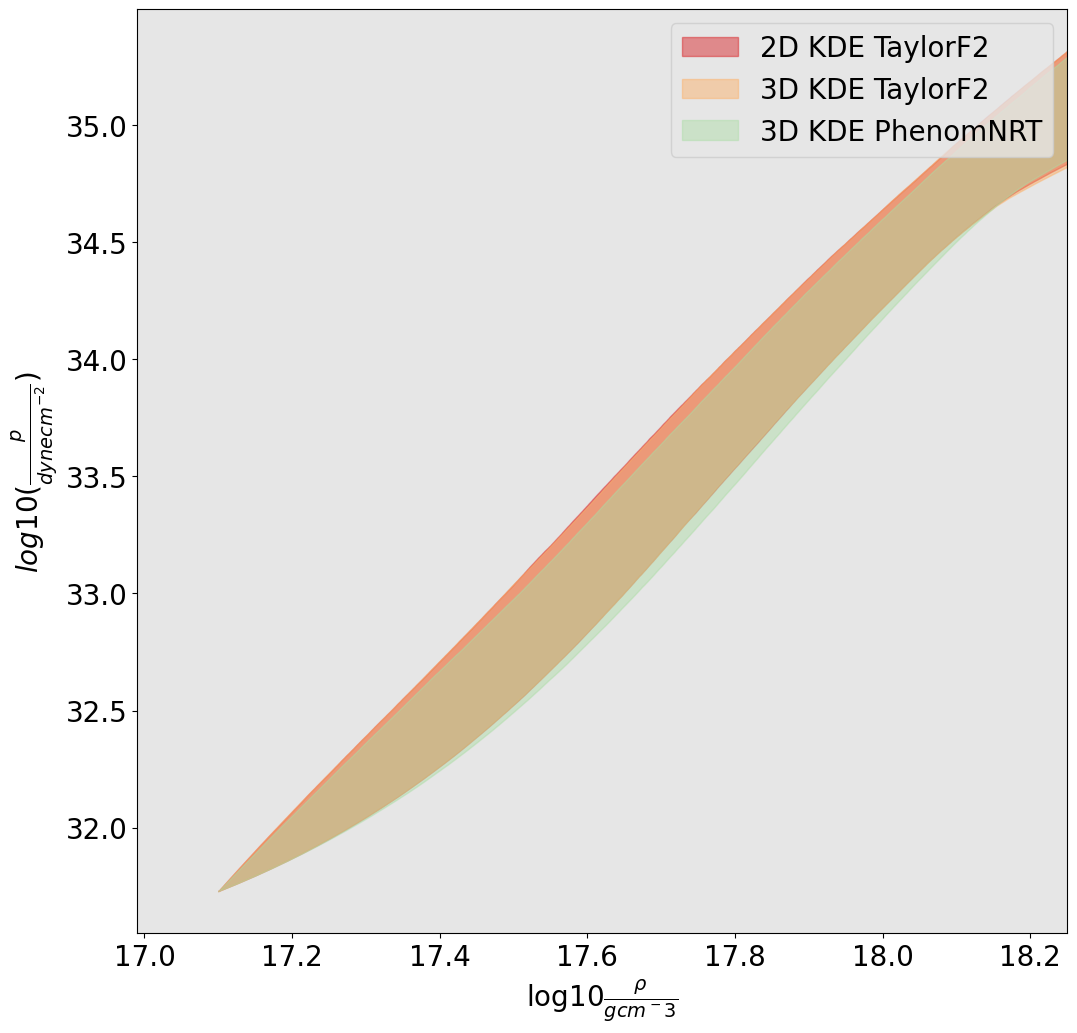
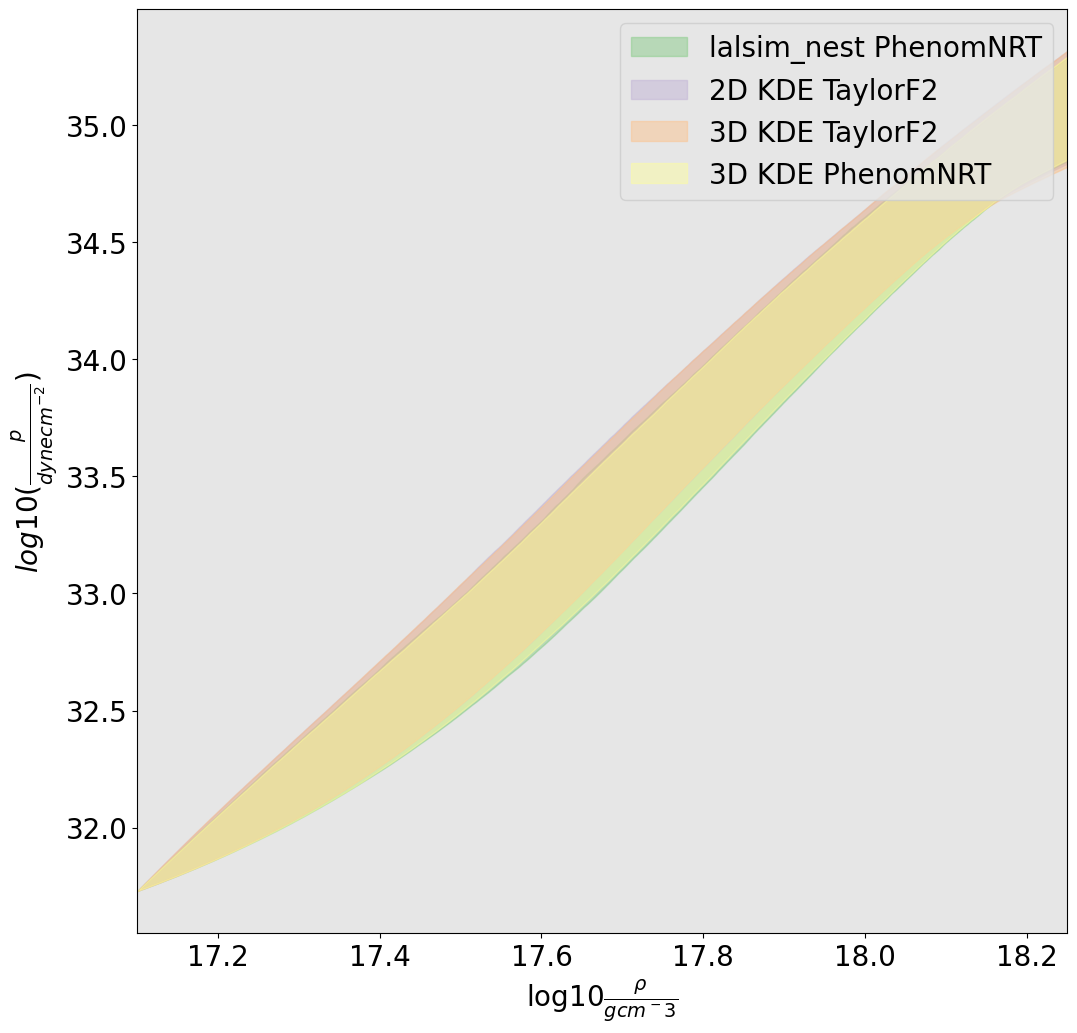
New comparison plot for GW170817 constraint.

diff --git a/year3/lastStretch/eventConstraint.py b/year3/lastStretch/eventConstraint.py
@@ -132,19 +132,17 @@ def CalcConstraint2():
 def plotConstraint():
     # Adopted from Anarya's GWXtreme 3d kde prod branch's plotting logic.
 
-    #labels = ["2D-KDE-TaylorF2", "3D-KDE-TaylorF2", "3D-KDE-PhenomNRT"]
+    labels = ["lalsim_nest-PhenomNRT", "2D-KDE-TaylorF2", "3D-KDE-TaylorF2", "3D-KDE-PhenomNRT"]
     #labels = ["2D-KDE-TaylorF2", "3D-KDE-TaylorF2"]
     #labels = ["3D-KDE-TaylorF2", "3D-KDE-PhenomNRT"]
-    labels = ["lalsim_nest-PhenomNRT"]
-    #Labels = ["2D KDE TaylorF2", "3D KDE TaylorF2", "3D KDE PhenomNRT"]
+    Labels = ["lalsim_nest PhenomNRT", "2D KDE TaylorF2", "3D KDE TaylorF2", "3D KDE PhenomNRT"]
     #Labels = ["2D KDE TaylorF2", "3D KDE TaylorF2"]
     #Labels = ["3D KDE TaylorF2", "3D KDE PhenomNRT"]
-    Labels = ["lalsim_nest PhenomNRT"]
+    Colors = ["#7fc97f","#beaed4","#fdc086","#ffff99"]
     #Colors = ["#d7191c","#fdae61","#abdda4"]
     #Colors = ['#e41a1c','#377eb8','#4daf4a']
     #Colors = ['#e41a1c','#377eb8']
     #Colors = ['#377eb8','#4daf4a']
-    Colors = ['#e41a1c']
 
     plt.figure(figsize=(12,12))
     plt.rc('font', size=20)
@@ -163,15 +161,14 @@ def plotConstraint():
         #plt.plot(upper_bound, rho, color=Color)
         plt.fill_between(np.log10(rho), lower_bound, upper_bound, color=Color, alpha=0.45, label=Label, zorder=1.)
 
-    EoSs = ["APR4_EPP","H4","SLY","MS1_PP"]
-    for EoS in EoSs:
-        logp=eos_p_of_rho(rho,lalsimulation.SimNeutronStarEOSByName(EoS))
-        plt.plot(np.log10(rho),logp, linewidth=2.0, label=EoS, alpha=0.35)
+    #EoSs = ["APR4_EPP","H4","SLY","MS1_PP"]
+    #for EoS in EoSs:
+    #    logp=eos_p_of_rho(rho,lalsimulation.SimNeutronStarEOSByName(EoS))
+    #    plt.plot(np.log10(rho),logp, linewidth=2.0, label=EoS, alpha=0.35)
 
     plt.xlim([min(np.log10(rho)), 18.25])
     plt.xlabel(r'$\log10{\frac{\rho}{g cm^-3}}$',fontsize=20)
     plt.ylabel(r'$log10(\frac{p}{dyne cm^{-2}})$',fontsize=20)
     plt.legend()
-    #plt.savefig("plots/constraints/GW170817_constraint.png", bbox_inches='tight')
-    plt.savefig("plots/constraints/lalsim_nest_GW170817_constraint.pdf", bbox_inches='tight')
+    plt.savefig("plots/constraints/GW170817_constraint.png", bbox_inches='tight')
 
